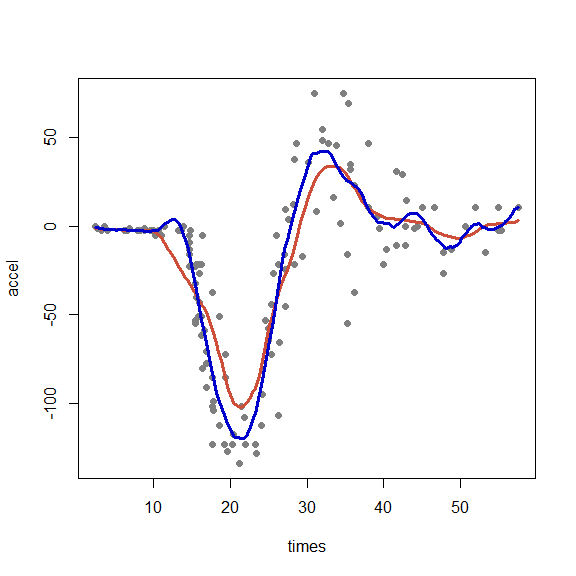
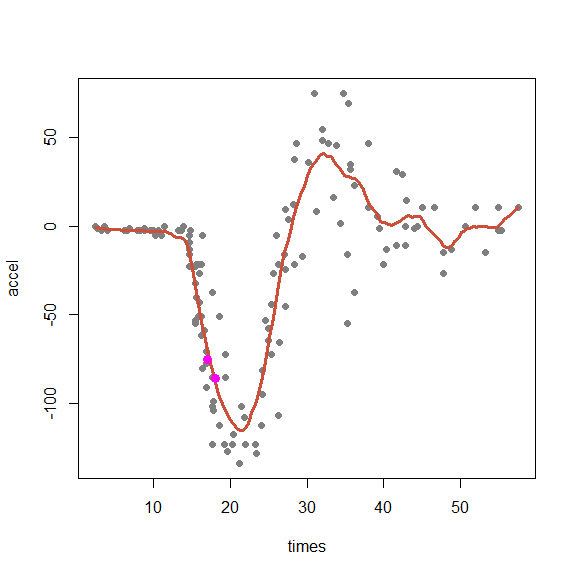
update

Changed region(s): [[0.1562, 0.25, 0.6562, 0.7812], [0.6562, 0.3438, 0.9062, 0.4375]]

diff --git a/Simple_examples.md b/Simple_examples.md
@@ -204,24 +204,31 @@ Note that, unlike the S-estimator, the MM-estimator is indistinguishable
 from the LS estimator computed on the clean data. This is the desired
 result of using an efficient and robust estimator.
 
-#### A bad start
+<!-- #### A bad start -->
 
-``` r
-phosphor[17, 'organic'] <- 15
-beta <- coef(lm(plant ~ organic, data=phosphor))
-beta <- c(300, -2)
-for(j in 1:100) {
-  re <- as.vector(y - xx %*% beta) 
-  sis[j] <- si.hat <- mscale(re, tuning.chi=cc, family='bisquare') 
-  ww <- rhoprime(re/si.hat, family='bisquare', cc=cc) / (re/si.hat)
-  beta <- solve( t(xx) %*% (xx*ww), t(xx * ww) %*% y) 
-}
-plot(plant ~ organic, data=phosphor, pch=19, col='gray50')
-abline(beta, lwd=3, col='hotpink')
-abline(lm(plant ~ organic, data=phosphor), lwd=3, col='steelblue3')
-```
+<!-- ```{r bad} -->
 
-![](Simple_examples_files/figure-gfm/bad-1.png)<!-- -->
+<!-- beta <- coef(lm(plant ~ organic, data=phosphor)) -->
+
+<!-- for(j in 1:100) { -->
+
+<!--   re <- as.vector(y - xx %*% beta)  -->
+
+<!--   sis[j] <- si.hat <- mscale(re, tuning.chi=cc, family='bisquare')  -->
+
+<!--   ww <- rhoprime(re/si.hat, family='bisquare', cc=cc) / (re/si.hat) -->
+
+<!--   beta <- solve( t(xx) %*% (xx*ww), t(xx * ww) %*% y)  -->
+
+<!-- } -->
+
+<!-- plot(plant ~ organic, data=phosphor, pch=19, col='gray50') -->
+
+<!-- abline(beta, lwd=3, col='hotpink') -->
+
+<!-- abline(lm(plant ~ organic, data=phosphor), lwd=3, col='steelblue3') -->
+
+<!-- ``` -->
 
 <!-- # a2 <- robustbase::lmrob(plant ~ organic, data=phosphor) -->
 
@@ -261,51 +268,107 @@ plot(accel ~ times, data=mcycle, pch=19, col='gray50')
 We will compute a Kernel M-estimator at `x0 = 17`. We first need an
 estimator of the residual scale. Looking at the plot, it does not seem
 reasonable to assume a homogeneous model, so we look for a *local*
-residual scale estimator. We use a bandwidth `h = 3`. The local MAD
+residual scale estimator. We use a bandwidth `h = 2`. The local MAD
 (using a local median estimator) is
 
 ``` r
-si.hat <- with(mcycle, mad( accel[ abs(times-17) < 3] ) )
+x0 <- 17
+h <- 3
+si.hat <- with(mcycle, mad( accel[ abs(times-x0) < h] ) )
 ```
 
 Note that residuals with respect to a local L1 estimator would be much
 smaller
 
 ``` r
-ii <- with(mcycle, which( abs(times-17) < 3) )
+ii <- with(mcycle, which( abs(times-x0) < h) )
 si.hat2 <- mad( resid( quantreg::rq(accel ~ times, data=mcycle, subset=ii) ) )
 ```
+
+We now compute \[\hat{f}(x0)\]. We use the Epanechnikov kernel as
+implemented in `RBF::k.epan`, and the residual scale estimator `si.hat2`
+above. We compute a local linear fit, with a redescending \[\rho\], from
+Tukey’s bisquare family.
+
+``` r
+# initial
+beta <- coef( quantreg::rq(accel ~ I(times-x0), data=mcycle, subset=ii) )
+n <- nrow(mcycle)
+zz <- cbind(rep(1,n), mcycle$times - x0)
+ker.we <- RBF::k.epan((mcycle$times - x0)/h)
+y <- mcycle$accel
+cc2 <- lmrobdet.control(family='bisquare', bb=.5)$tuning.psi
+for(j in 1:100) {
+  re <- as.vector(y - zz %*% beta)
+  ww1 <- rhoprime(re/si.hat2, family='bisquare', cc=cc2) / (re/si.hat2)
+  ww1[ is.nan(ww1) ] <- 1
+  ww <- ker.we * ww1
+  beta <- solve( t(zz) %*% (zz*ww), t(zz * ww) %*% y) 
+}
+```
+
+Let’s see.
+
+``` r
+plot(accel ~ times, data=mcycle, pch=19, col='gray50')
+points(accel ~ times, data=mcycle, pch=19, col='steelblue3', subset=ii)
+abline(v=17)
+points(17, beta[1], pch=19, col='magenta', cex=1.3)
+abline(beta[1] - 17*beta[2], beta[2], lwd=1, col='steelblue3')
+```
+
+![](Simple_examples_files/figure-gfm/mest-1.png)<!-- -->
+
+Repeat for \[x0 = 18\].
+
+``` r
+# save fit for 17
+beta17 <- beta
+x0 <- 18
+ii <- with(mcycle, which( abs(times-x0) < 3) )
+si.hat2 <- mad( resid( quantreg::rq(accel ~ times, data=mcycle, subset=ii) ) )
+beta <- coef( quantreg::rq(accel ~ I(times-x0), data=mcycle, subset=ii) )
+zz <- cbind(rep(1,n), mcycle$times - x0)
+ker.we <- RBF::k.epan((mcycle$times - x0)/h)
+for(j in 1:100) {
+  re <- as.vector(y - zz %*% beta)
+  ww1 <- rhoprime(re/si.hat2, family='bisquare', cc=cc2) / (re/si.hat2)
+  ww1[ is.nan(ww1) ] <- 1
+  ww <- ker.we * ww1
+  beta <- solve( t(zz) %*% (zz*ww), t(zz * ww) %*% y) 
+}
+beta18 <- beta
+plot(accel ~ times, data=mcycle, pch=19, col='gray50')
+abline(v=c(17, 18))
+points(17, beta17[1], pch=19, col='magenta', cex=1.3)
+points(18, beta18[1], pch=19, col='magenta', cex=1.3)
+```
+
+![](Simple_examples_files/figure-gfm/repeat-1.png)<!-- -->
+
+Compare with the fit from package `RBF`.
 
 ``` r
 library(RBF)
 tt <- with(mcycle, seq(min(times), max(times), length=200))
-a <- backf.rob(Xp = mcycle$times, yp=mcycle$accel, windows=5, 
-               point=as.matrix(tt), type='Tukey') 
+a <- backf.rob(Xp = mcycle$times, yp=mcycle$accel, windows=h, 
+               point=as.matrix(tt), type='Tukey', degree=1) 
 plot(accel ~ times, data=mcycle, pch=19, col='gray50')
 lines(tt, a$prediction+a$alpha, col='tomato3', lwd=3)
-b <- backf.rob(Xp = mcycle$times, yp=mcycle$accel, windows=5, 
-               point=as.matrix(tt), degree=2, type='Tukey')
-lines(tt, b$prediction+b$alpha, col='blue3', lwd=3)
+points(17, beta17[1], pch=19, col='magenta', cex=1.3)
+points(18, beta18[1], pch=19, col='magenta', cex=1.3)
 ```
 
 ![](Simple_examples_files/figure-gfm/cycle2-1.png)<!-- -->
 
-``` r
-plot(accel ~ times, data=mcycle, pch=19, col='gray50')
-```
+<!-- ```{r cyclemgcv} -->
 
-![](Simple_examples_files/figure-gfm/cyclemgcv-1.png)<!-- -->
+<!-- plot(accel ~ times, data=mcycle, pch=19, col='gray50') -->
 
-``` r
-a <- mgcv::gam(accel ~ s(times, bs='cr'), data=mcycle, family='gaussian')
-plot(a, resid=TRUE, pch=19, cex=.9)
-```
+<!-- a <- mgcv::gam(accel ~ s(times, bs='cr'), data=mcycle, family='gaussian') -->
 
-![](Simple_examples_files/figure-gfm/cyclemgcv-2.png)<!-- -->
+<!-- plot(a, resid=TRUE, pch=19, cex=.9) -->
 
-``` r
-predict(a, newdata=data.frame(times=17))
-```
+<!-- predict(a, newdata=data.frame(times=17)) -->
 
-    ##         1 
-    ## -66.53594
+<!-- ``` -->
